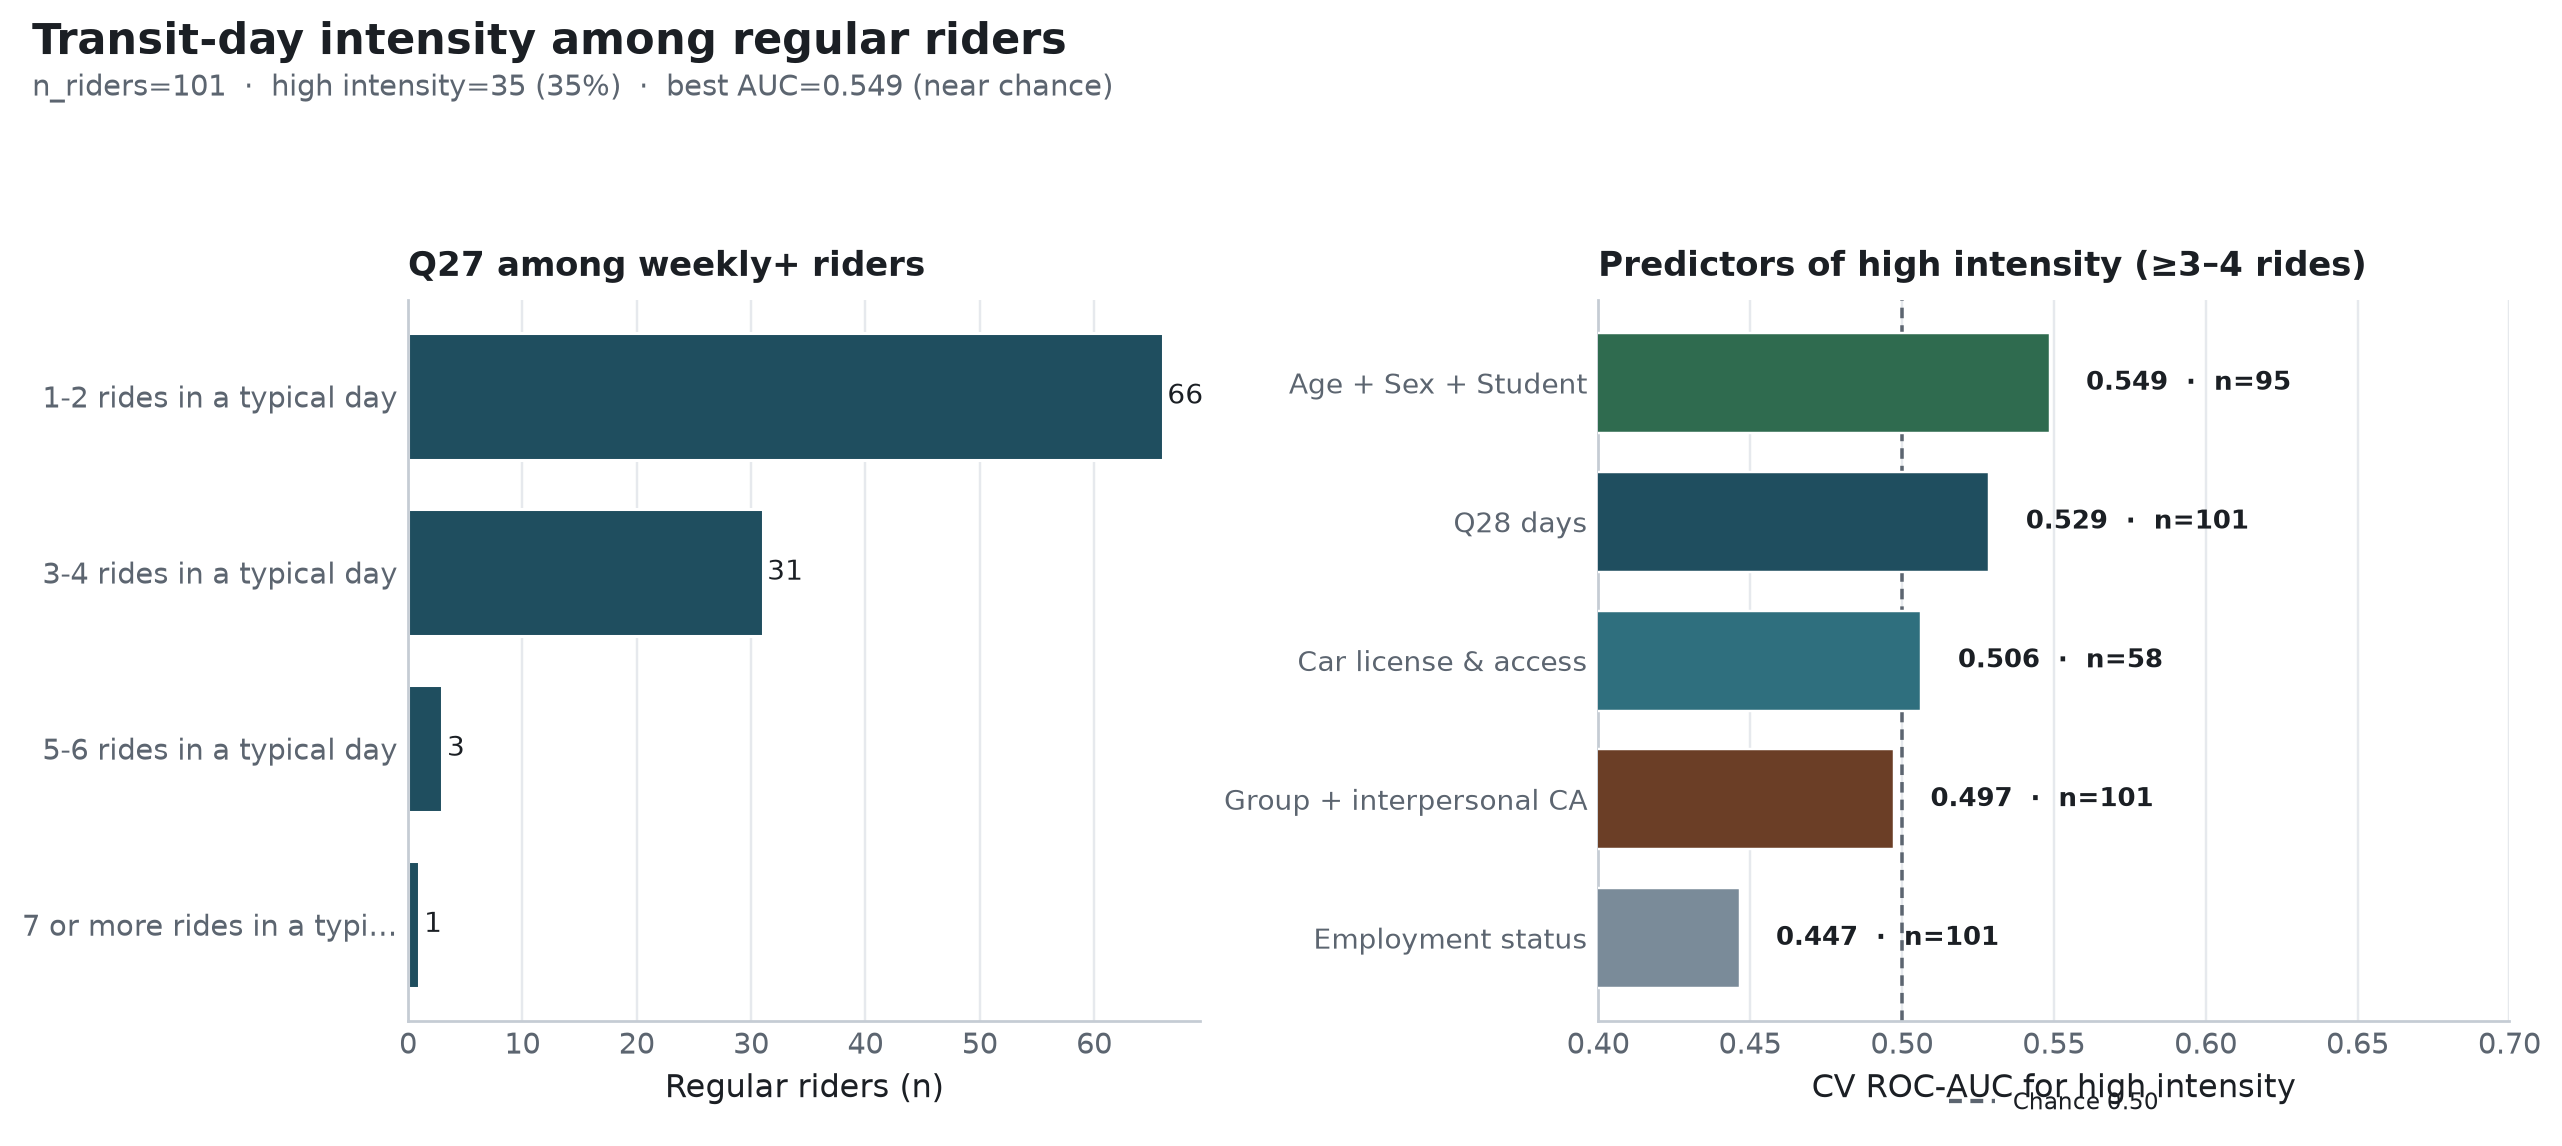
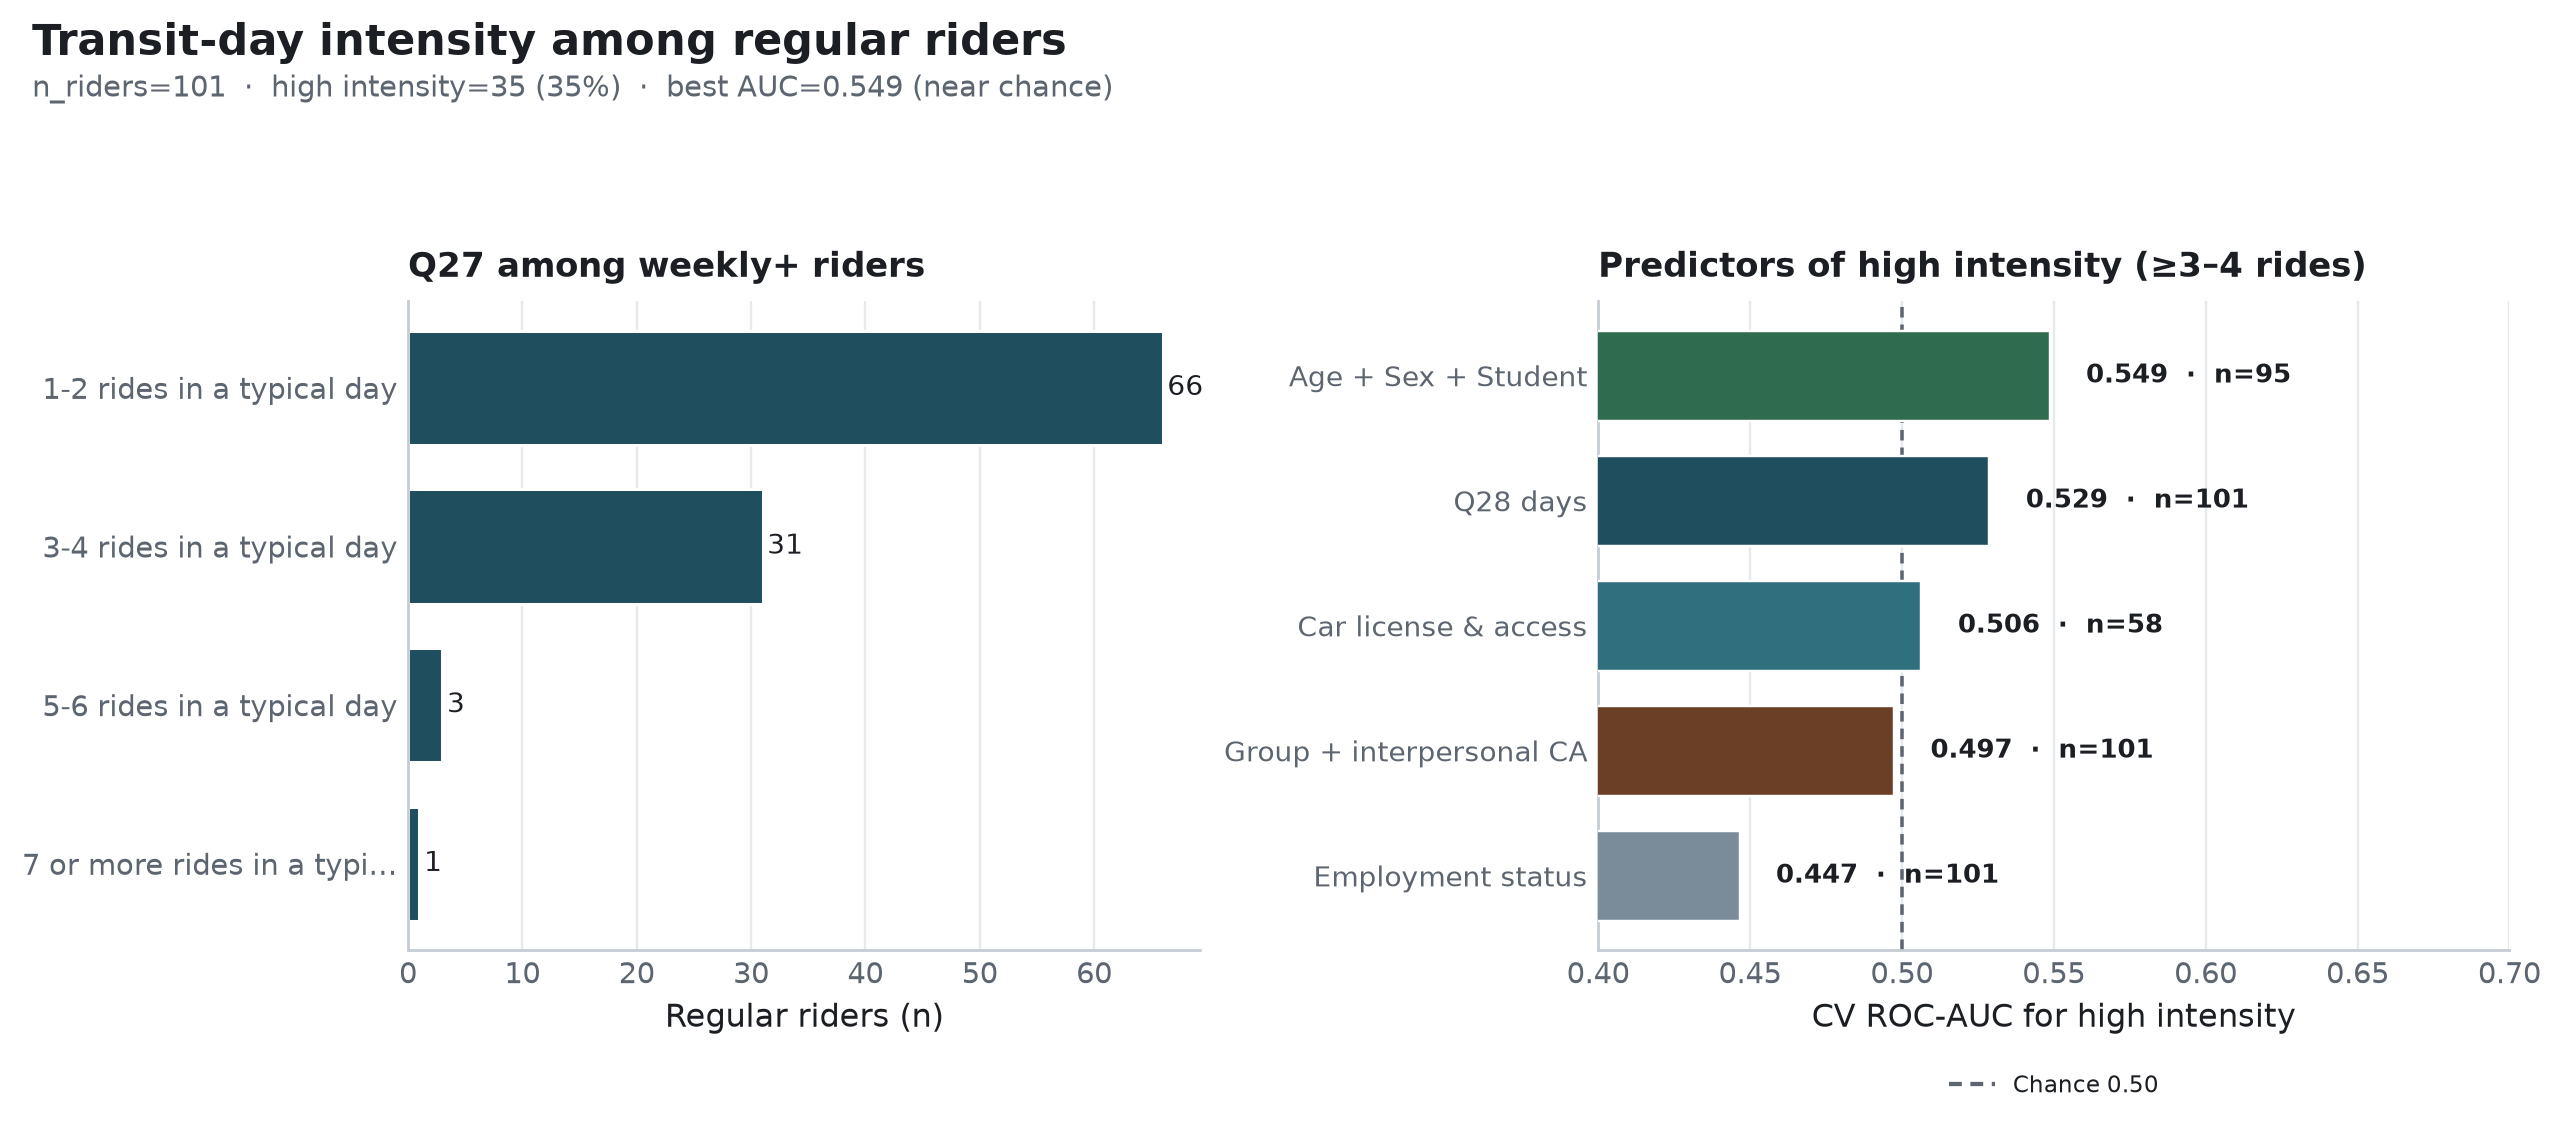
Reset Artifact Visualizations
Fixed improperly displaying visualizations, legends, and axis labels.

diff --git a/src/ca_personas/viz_style.py b/src/ca_personas/viz_style.py
@@ -123,6 +123,40 @@ def style_axes(ax: Axes, *, grid: str = "x") -> None:
     ax.tick_params(length=0)
 
 
+def fit_text_within_axes(ax: Axes, texts: Sequence[Any], *, pad_frac: float = 0.015) -> None:
+    """Grow the x-limits so every ``text`` stays inside the axes box.
+
+    Value labels are drawn to the right of bars; long labels (e.g. AUC + n)
+    would otherwise spill past the axes edge into a neighboring panel or the
+    figure margin. We measure the live text extents and expand the x-limits
+    with a small proportional pad — applied only on the side(s) that actually
+    overflowed, so lower bounds like ``0`` (prevalence) are never pushed
+    negative.
+    """
+    texts = [t for t in texts if t.get_text().strip()]
+    if not texts:
+        return
+    fig = ax.figure
+    fig.canvas.draw()
+    renderer = fig.canvas.get_renderer()
+    inv = ax.transData.inverted()
+    axbox = ax.get_window_extent(renderer)
+    x0, x1 = ax.get_xlim()
+    lo, hi = x0, x1
+    for t in texts:
+        ext = t.get_window_extent(renderer)
+        if ext.x0 < axbox.x0:
+            lo = min(lo, inv.transform((ext.x0, 0))[0])
+        if ext.x1 > axbox.x1:
+            hi = max(hi, inv.transform((ext.x1, 0))[0])
+    span = hi - lo
+    pad = pad_frac * span
+    new_x0 = x0 - pad if lo < x0 else x0
+    new_x1 = x1 + pad if hi > x1 else x1
+    if new_x0 != x0 or new_x1 != x1:
+        ax.set_xlim(new_x0, new_x1)
+
+
 def add_title_block(
     fig: Figure,
     title: str,
@@ -263,7 +297,7 @@ def plot_auc_bars(
         ax.legend(
             handles=bench_handles,
             loc="upper center" if legend_loc == "below" else legend_loc,
-            bbox_to_anchor=(0.5, -0.07) if legend_loc == "below" else None,
+            bbox_to_anchor=(0.5, -0.16) if legend_loc == "below" else None,
             ncol=len(bench_handles) if legend_loc == "below" else 1,
             fontsize=7.5,
             title="Benchmarks" if legend_loc != "below" else None,
@@ -275,26 +309,39 @@ def plot_auc_bars(
             framealpha=0.95,
         )
 
+    # Omit the repeated "· n=…" suffix when every bar shares the same n —
+    # it is redundant noise (n is already in the title block).
+    show_n = ns is not None
+    if show_n:
+        n_vals = [v for v in ns if v is not None]
+        if n_vals and all(v == n_vals[0] for v in n_vals):
+            show_n = False
+
+    value_texts = []
     for i, (bar, auc) in enumerate(zip(bars, aucs_arr)):
         label = f"{auc:.3f}"
-        if ns is not None:
+        if show_n:
             n_val = ns[order[i]]
             if n_val is not None and not (isinstance(n_val, float) and np.isnan(n_val)):
                 label = f"{auc:.3f}  ·  n={int(n_val)}"
         # Ensure text stays within xlim by dynamically offsetting
         xlim_actual = ax.get_xlim()
         xpos = min(auc + 0.012, xlim_actual[1] - 0.03)
-        ax.text(
-            xpos,
-            bar.get_y() + bar.get_height() / 2,
-            label,
-            va="center",
-            ha="left",
-            fontsize=8.5,
-            color=INK,
-            fontweight="bold",
-            zorder=4,
+        value_texts.append(
+            ax.text(
+                xpos,
+                bar.get_y() + bar.get_height() / 2,
+                label,
+                va="center",
+                ha="left",
+                fontsize=8.5,
+                color=INK,
+                fontweight="bold",
+                zorder=4,
+                clip_on=True,
+            )
         )
+    fit_text_within_axes(ax, value_texts)
     return bench_handles
 
 
@@ -348,11 +395,28 @@ def plot_prevalence_bars(
     xmax = max(0.72, float(np.nanmax(pcts_arr)) + 0.16)
     ax.set_xlim(0, xmax)
     style_axes(ax, grid="x")
+    value_texts = []
     for i, pct in enumerate(pcts_arr):
         txt = f"{pct:.0%}"
         if ns_arr is not None:
             txt = f"{pct:.0%}  (n={ns_arr[i]})"
-        ax.text(pct + 0.015, i, txt, va="center", ha="left", fontsize=8.5, color=INK)
+        value_texts.append(
+            ax.text(
+                pct + 0.015,
+                i,
+                txt,
+                va="center",
+                ha="left",
+                fontsize=8.5,
+                color=INK,
+                clip_on=True,
+            )
+        )
+    fit_text_within_axes(ax, value_texts)
+    # Prevalence can never be negative: never let label-fitting push the
+    # lower x-limit below 0 (that would draw an out-of-range "-0.2" tick).
+    lo, hi = ax.get_xlim()
+    ax.set_xlim(max(0.0, lo), hi)
 
 
 def plot_roc_curve(
@@ -377,6 +441,8 @@ def plot_roc_curve(
     ax.set_ylabel("True positive rate")
     ax.set_title(title, loc="left", fontsize=11, pad=8)
     style_axes(ax, grid="both")
+    # Extra tick pad so the corner "0.0" x-tick clears the "0.0" y-tick label.
+    ax.tick_params(axis="x", pad=8)
     ax.legend(loc="lower right", fontsize=8.5)
 
 
@@ -431,17 +497,24 @@ def plot_forest_diffs(
     xlim_curr = ax.get_xlim()
     xlim_new = (min(xlim_curr[0], min(diffs) - xpad), max(xlim_curr[1], max(diffs) + xpad))
     ax.set_xlim(*xlim_new)
-    for i, (d, p) in enumerate(zip(diffs, work.get("welch_p", [np.nan] * len(work)))):
-        txt = f"{d:+.1f}" + (f"  p={p:.3f}" if pd.notna(p) else "")
-        ax.text(
-            d + (0.15 if d >= 0 else -0.15),
-            i,
-            txt,
-            va="center",
-            ha="left" if d >= 0 else "right",
-            fontsize=8,
-            color=INK,
+    # Compact data labels: the p-values / significance stars already live in
+    # the accompanying memo tables and on the y-tick labels, so long
+    # "−4.8  p=0.006" strings only crowd the panel.
+    value_texts = []
+    for i, d in enumerate(diffs):
+        value_texts.append(
+            ax.text(
+                d + (0.15 if d >= 0 else -0.15),
+                i,
+                f"{d:+.1f}",
+                va="center",
+                ha="left" if d >= 0 else "right",
+                fontsize=8,
+                color=INK,
+                clip_on=True,
+            )
         )
+    fit_text_within_axes(ax, value_texts, pad_frac=0.02)
 
 
 def short_level(text: Any, *, max_len: int = 28) -> str:

diff --git a/src/ca_personas/followup_experiments.py b/src/ca_personas/followup_experiments.py
@@ -1578,9 +1578,15 @@ def plot_experiment_memo_figure(
 
     # ---- Specialized layouts -------------------------------------------------
     if key == "demographics":
-        fig = plt.figure(figsize=(12.2, 5.6))
-        gs = fig.add_gridspec(1, 3, width_ratios=[1.15, 1.0, 1.05], wspace=0.32)
-        ax0, ax1, ax2 = fig.add_subplot(gs[0, 0]), fig.add_subplot(gs[0, 1]), fig.add_subplot(gs[0, 2])
+        # Plain subplots (not add_gridspec): figures built with add_gridspec
+        # are incompatible with save_figure's tight_layout pass.
+        fig, axes = plt.subplots(
+            1,
+            3,
+            figsize=(12.2, 5.6),
+            gridspec_kw={"width_ratios": [1.15, 1.0, 1.05], "wspace": 0.32},
+        )
+        ax0, ax1, ax2 = axes[0], axes[1], axes[2]
         age = _assoc_for_feature(assoc, "Age (tertile)") if isinstance(assoc, pd.DataFrame) else pd.DataFrame()
         if not age.empty:
             plot_prevalence_bars(
@@ -1668,8 +1674,10 @@ def plot_experiment_memo_figure(
                 f"CA incremental ≈ {delta.get('ca_incremental_over_q28', float('nan')):+.3f}"
             ),
         )
-        fig.subplots_adjust(top=0.80, left=0.10, right=0.98, bottom=0.12, wspace=0.30)
-        return save_figure(fig, out)
+        # Reserve a bottom band so the below-axes benchmark legend clears the
+        # xlabels; tight_layout runs inside this same box and cannot clobber it.
+        fig.subplots_adjust(top=0.84, left=0.10, right=0.97, bottom=0.16, wspace=0.35)
+        return save_figure(fig, out, tight_rect=(0.08, 0.16, 0.98, 0.84))
 
     if key == "q27_among_regular":
         fig, axes = plt.subplots(1, 2, figsize=(11.8, 5.3), gridspec_kw={"width_ratios": [1.0, 1.15]})
